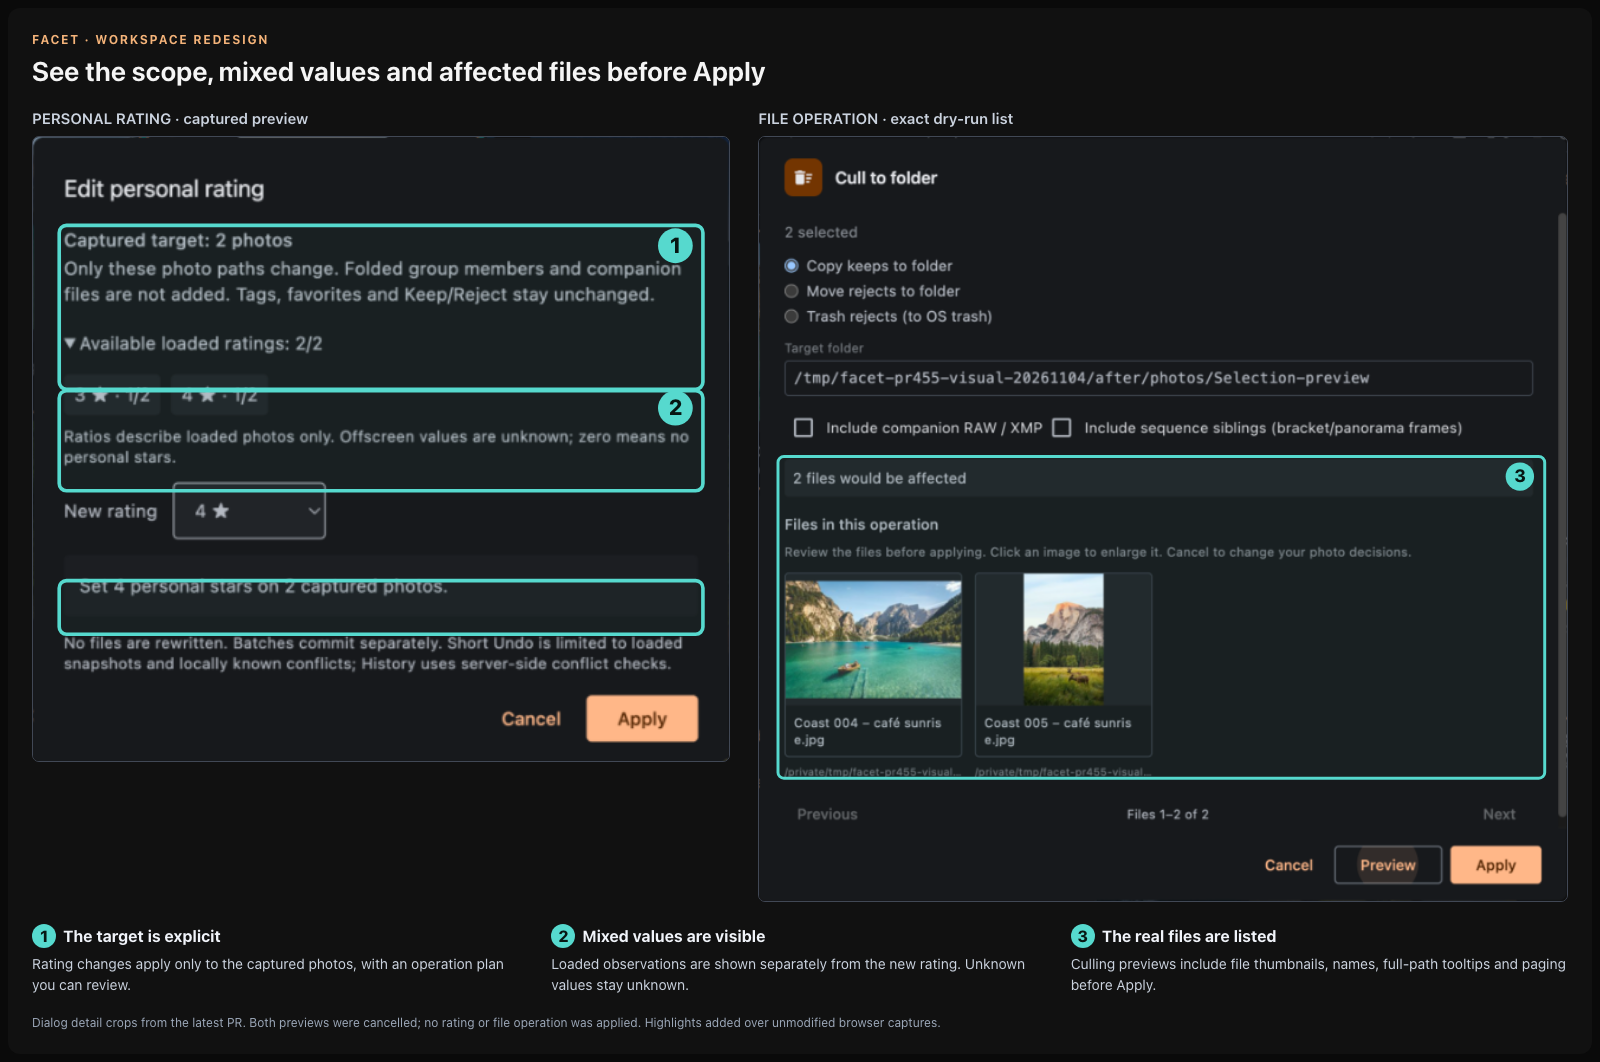
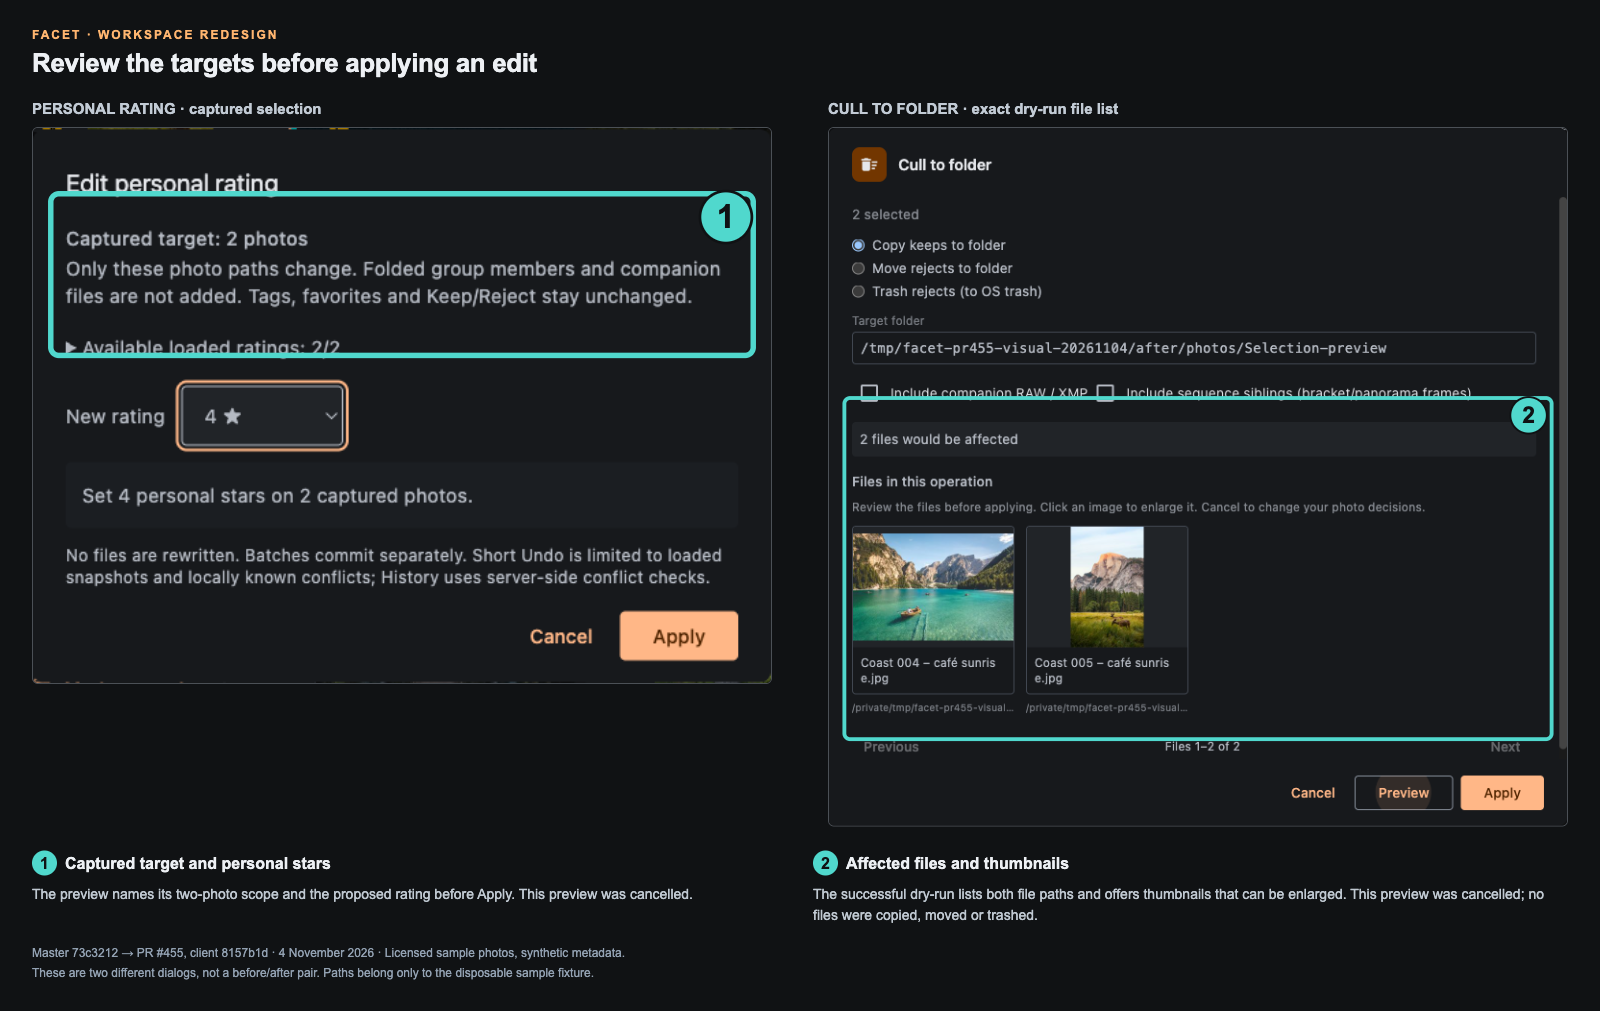
docs: refresh comparisons for the latest review fixes

diff --git a/2026-11-04/README.md b/2026-11-04/README.md
@@ -1,9 +1,9 @@
 # Facet workspace screenshots · 4 November 2026
 
 Before: upstream master `73c3212ee8609634603b048c7dfe6265bba321ff`.
-After: PR #455 `26473a658738943eb3bcfa66496b9c1eed338a7f`.
+After: PR #455 client `8157b1d1f58c871cf2b3db046a0c597d3957b80b`.
 
-The before and after servers use equivalent, disposable copies of the same sample library. Desktop captures use a 1440 × 900 CSS viewport; phone captures use 390 × 844. Both use dark mode, aggregate sort, grid layout and a 240px thumbnail setting. Browser screenshot scaling determines the exported pixel dimensions recorded in manifest.json.
+The before and after servers use equivalent, disposable copies of the same sample library. Phone captures show both notice stacks collapsed, so their timing is matched. Desktop captures use a 1440 × 900 CSS viewport; phone captures use 390 × 844. Both use dark mode, aggregate sort, grid layout and a 240px thumbnail setting. Browser screenshot scaling determines the exported pixel dimensions recorded in manifest.json.
 
 - gallery-comparison.png: matched desktop galleries, with navigation, collection and photo-frame callouts.
 - photo-comparison.png: the same Coast 004 photo; the PR collection sidebar is expanded to 320px.
@@ -11,7 +11,7 @@ The before and after servers use equivalent, disposable copies of the same sampl
 - comparison-workspace.png: the new read-only comparison workspace at 2.3× linked zoom, with reference, candidate queue and viewport overview callouts.
 - preview-workflows.png: detail crops of the rating preview and a successful two-file culling dry-run. These are two different dialogs, not a before/after pair. Both were cancelled; no rating or file operation was applied.
 
-Numbered outlines, arrows, captions and cropping are presentation annotations over unmodified browser screenshots. Original captures are in [raw/](raw/). SHA-256 hashes and dimensions are in [manifest.json](manifest.json).
+Numbered outlines, arrows, captions and cropping are presentation annotations over unmodified browser screenshots. Original viewport captures and native dialog-element captures are in [raw/](raw/). SHA-256 hashes and dimensions are in [manifest.json](manifest.json).
 
 The sample photos are licensed Unsplash images; see [photo-credits.json](../photo-credits.json) and the [Unsplash license](https://unsplash.com/license). Filenames, dates, scores and decisions are synthetic fixture data, not model evaluations. A RAW placeholder exercises companion handling. Gallery counts differ because the PR groups that RAW/JPEG pair as one logical photo. No private library images or account data are included. Temporary paths visible in the culling dialog belong to the disposable fixture.
 
